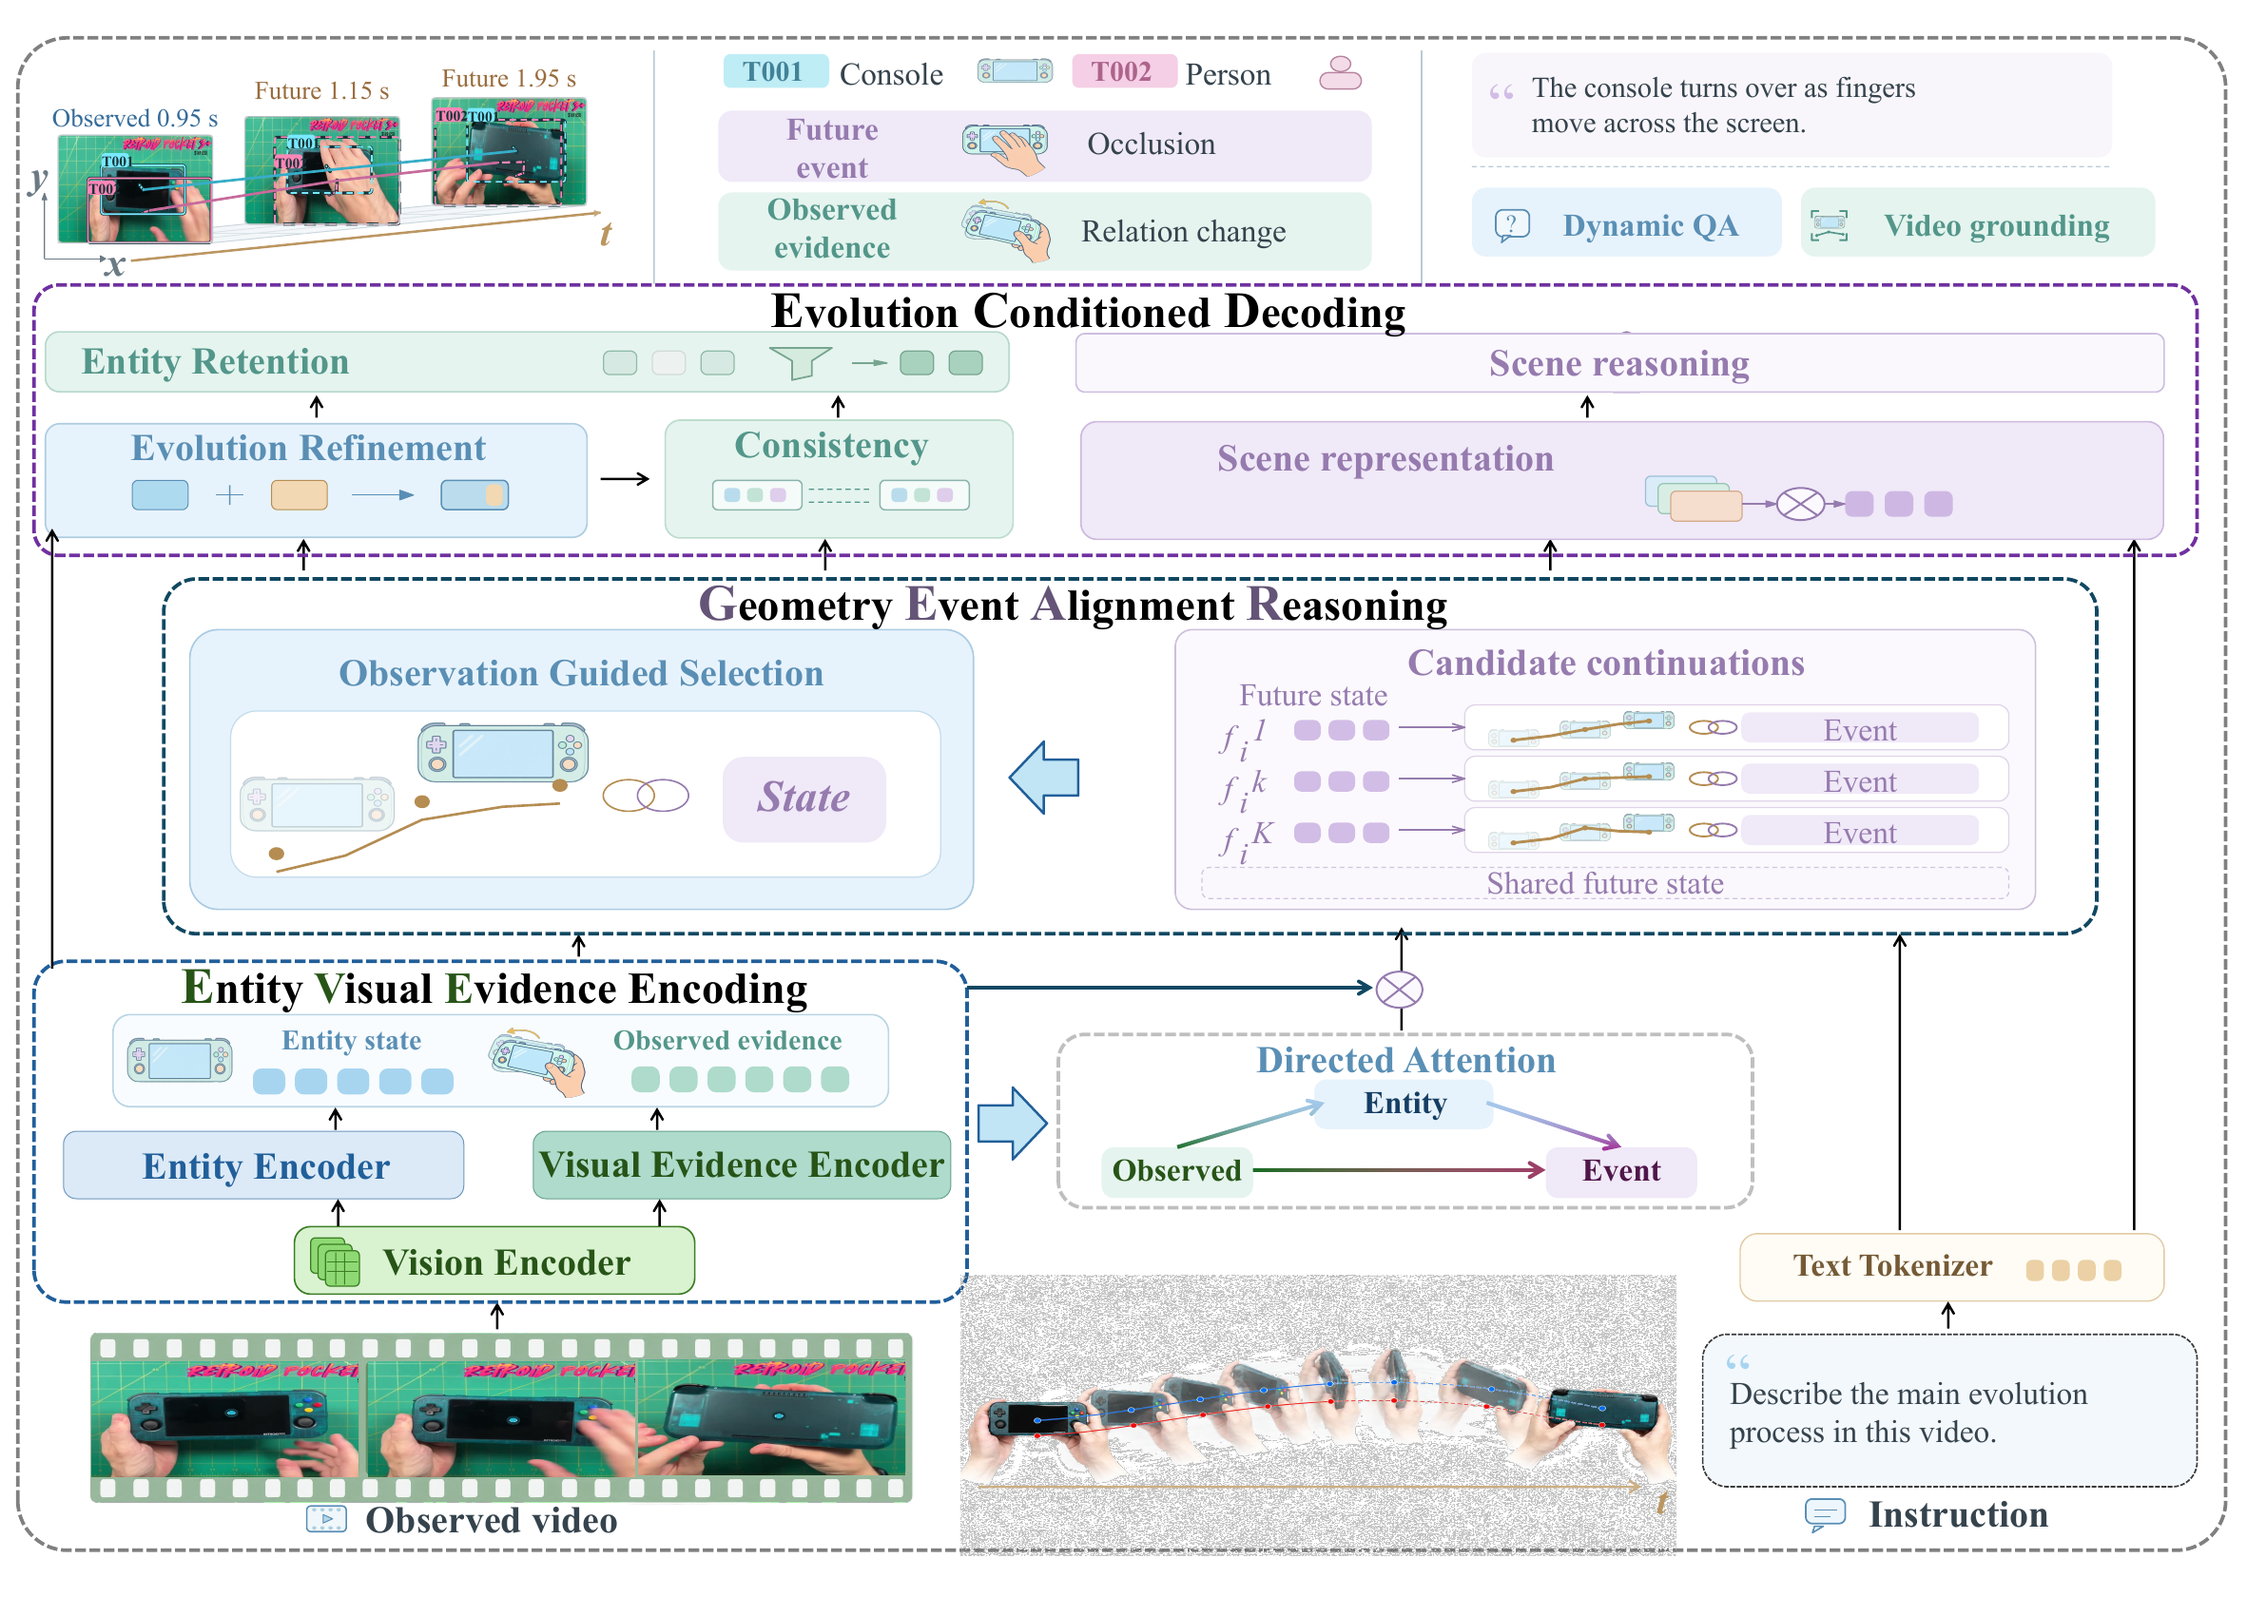
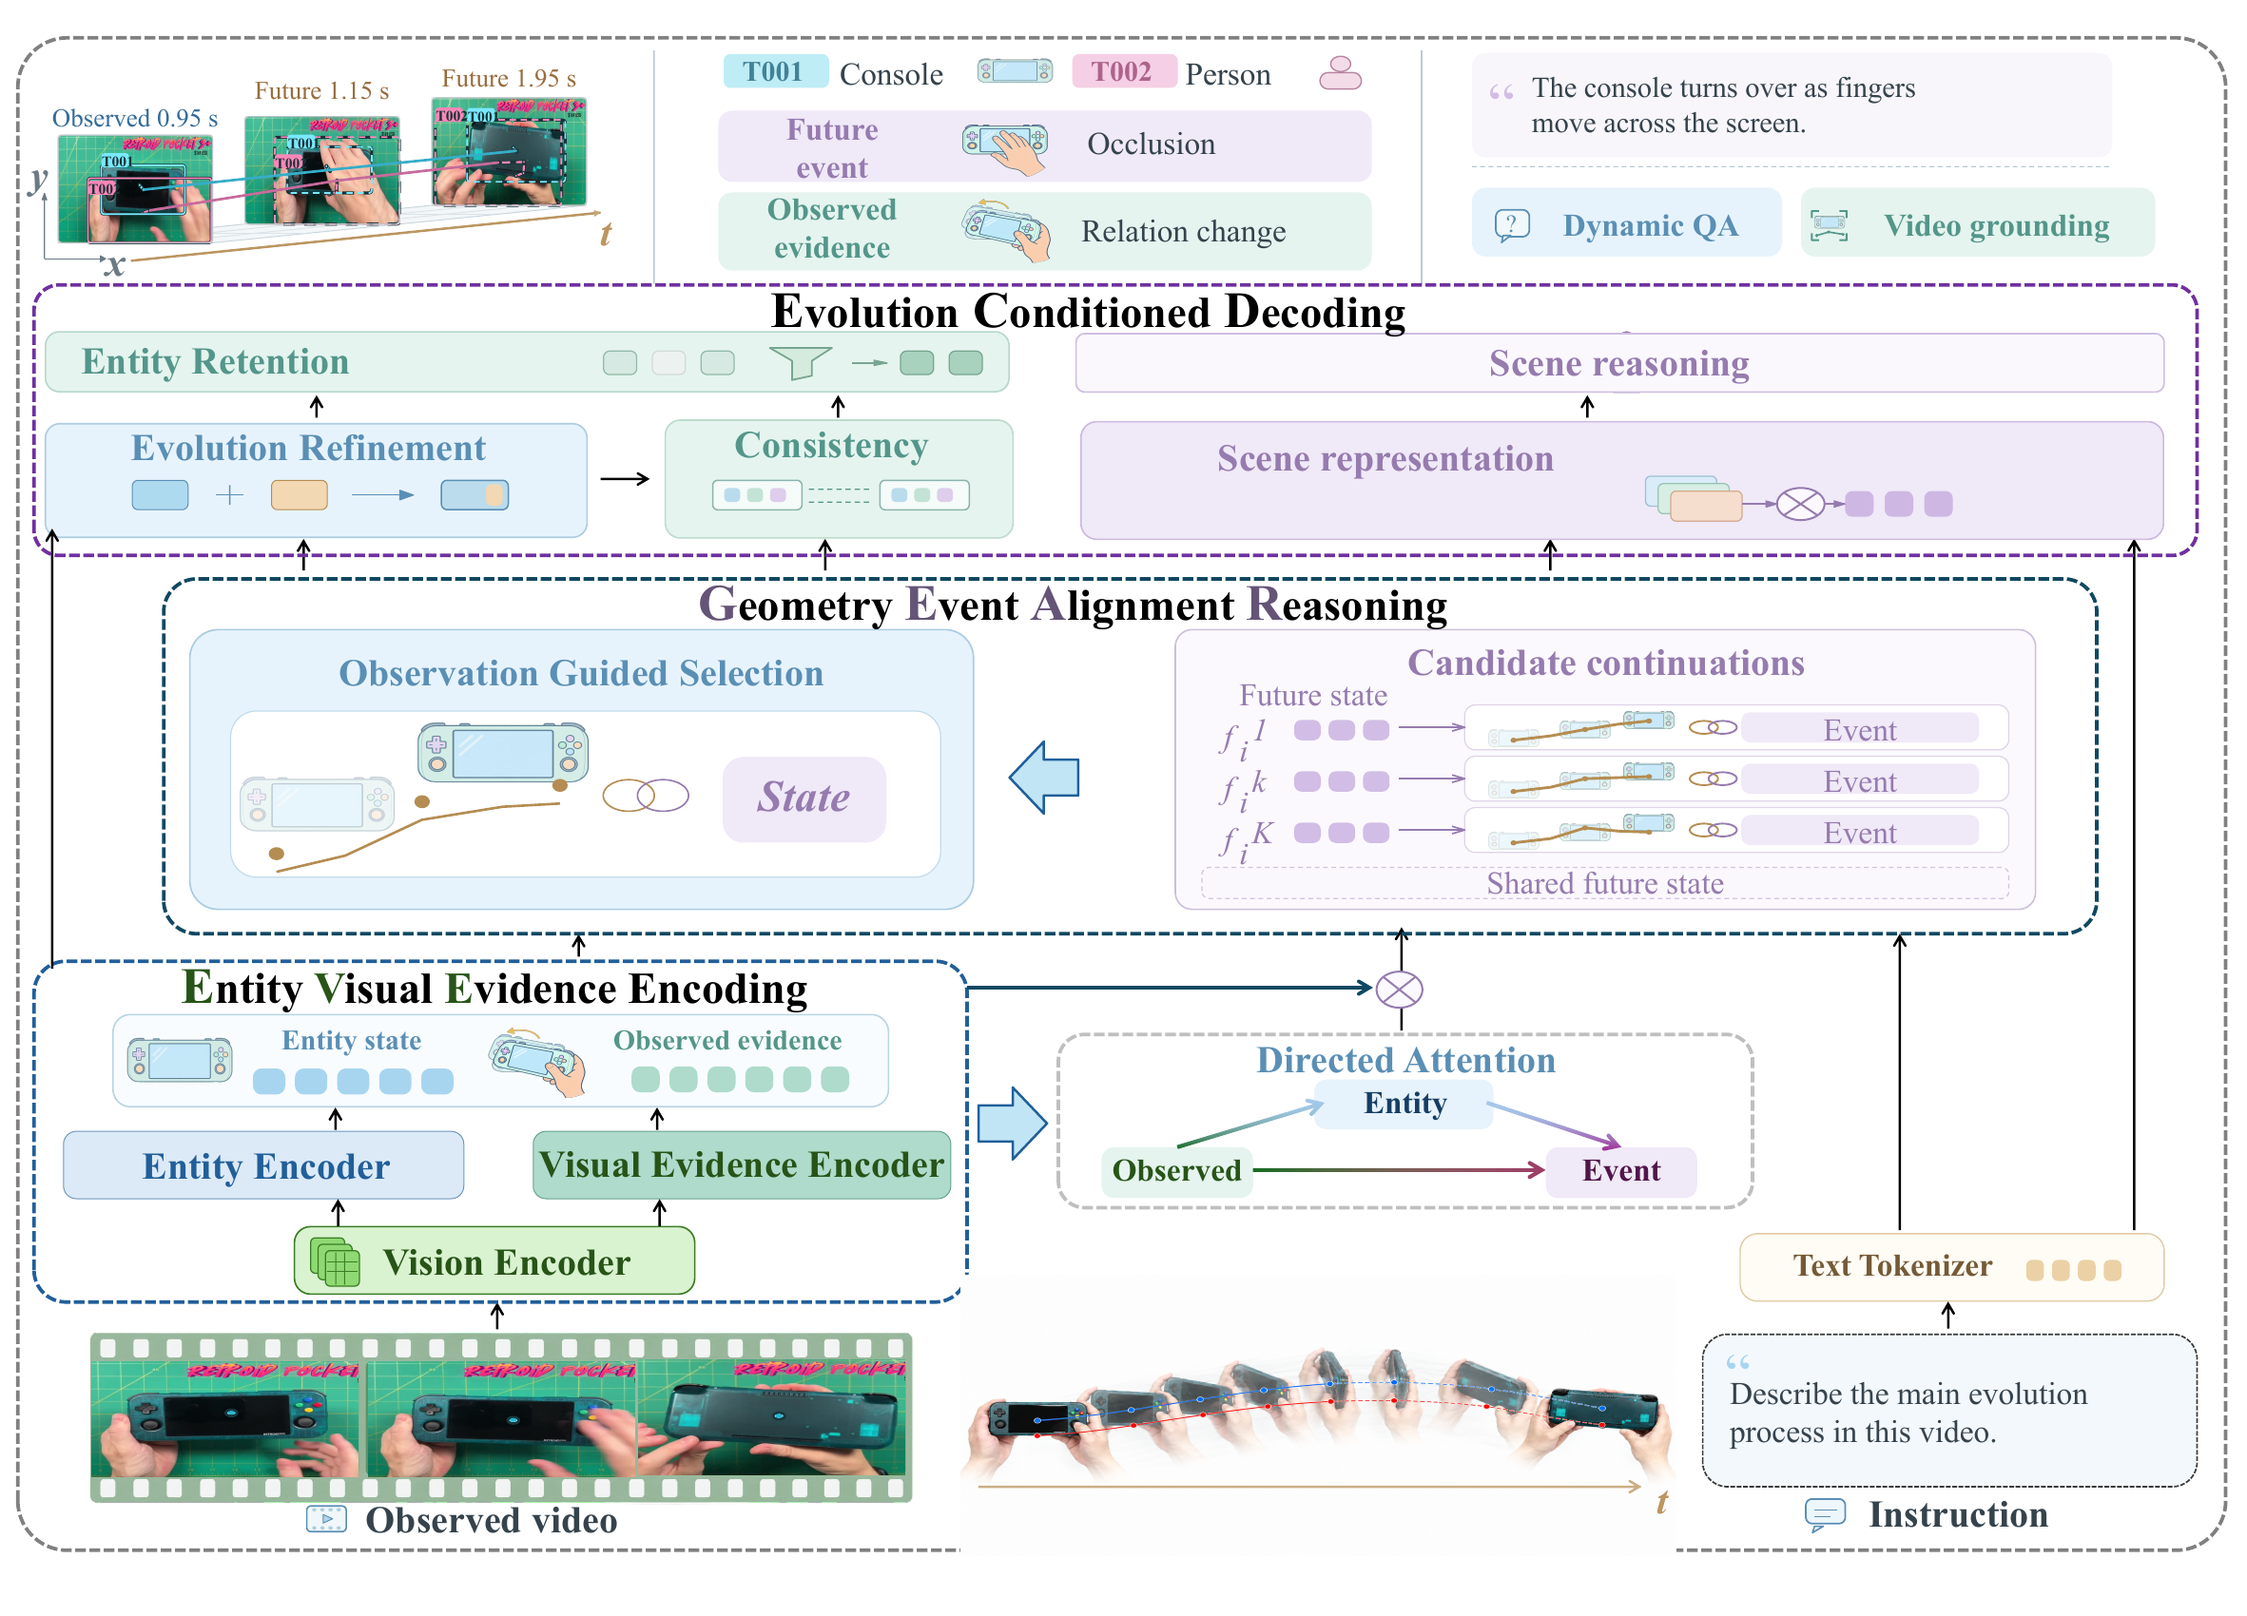
Restore clean original motion overlay and refine project introduction

Changed region(s): [[0.4016, 0.7794, 0.7414, 0.9665]]

diff --git a/README.md b/README.md
@@ -19,7 +19,7 @@
 <p><sup>1</sup> Huazhong University of Science and Technology<br>
 <sup>2</sup> Shanghai Jiao Tong University</p>
 
-**Following entities through change, and using their predicted evolution to reason about scenes.**
+**Reasoning about scenes through entity continuity and predicted change.**
 
 [Overview](#overview) &nbsp; · &nbsp; [Task](#task-comparison) &nbsp; · &nbsp; [Benchmark](#benchmark) &nbsp; · &nbsp; [EvoSee](#evosee) &nbsp; · &nbsp; [Results](#results) &nbsp; · &nbsp; [Release Status](#release-status) &nbsp; · &nbsp; [Citation](#citation)
 
@@ -29,12 +29,12 @@
 
 ## Overview
 
-Dynamic video reasoning requires understanding what changes while following the same entities through time. An entity retains its identity as its location, visibility, and relations develop. A trajectory describes where it moves; an Event describes how its state or relations change. Learning these complementary views of the same continuation connects spatial prediction with scene evolution reasoning.
+Scene evolution concerns how persistent entities move and interact over time. Learning this evolution connects the geometry of entity motion with the semantics of scene change, providing observed and anticipated context for spatiotemporal reasoning.
 
 | Task | Benchmark | Method |
 | :--- | :--- | :--- |
 | **Scene Evolution Understanding (SEU)** | **SceneForesee** | **EvoSee** |
-| Predict and interpret how observed entities and their relations develop. | Evaluate entity continuity and scene evolution reasoning on paired observed and future scenes. | Learn future geometry and Event semantics together, then use predicted change for entity and scene representations. |
+| Infer entity histories and future evolution, supported by observed Visual Evidence. | Evaluate entity continuity and scene evolution reasoning in paired scenes with shared identities. | Learn geometric and semantic continuations jointly to inform entity and scene reasoning. |
 
 <details>
 <summary><strong>Read the abstract</strong></summary>
@@ -70,7 +70,7 @@ The architecture comparison illustrates general video description and EvoSee for
   <a href="assets/benchmark.png"><img src="assets/benchmark.png" width="100%" alt="SceneForesee benchmark statistics, four Event types, annotation construction, and evaluation targets"></a>
 </p>
 
-SceneForesee pairs observed and future intervals under shared entity identities. Its annotations describe trajectories, future Events, associated Visual Evidence in observation, and the evolving scene.
+SceneForesee pairs observation and future intervals under shared entity identities. Trajectories, Events, and associated Visual Evidence support complementary geometric and semantic evaluations of the same evolving scenes.
 
 | Benchmark aspect | Categories or content |
 | :--- | :--- |
@@ -83,21 +83,21 @@ The two evaluation families provide **18 metrics** for complementary geometric a
 
 ## EvoSee
 
-**Geometry and Event semantics describe the same scene continuation.** EvoSee learns them through shared future states and uses the resulting changes to enrich entity and scene representations.
+**Future geometry and Event semantics describe the same entity continuation.** EvoSee learns this relationship through shared future states, selects a continuation from observation, and uses the predicted change to refine entity states and form scene context.
 
 <p align="center">
-  <a href="assets/method.png"><img src="assets/method.png" width="100%" alt="EvoSee architecture with Entity Visual Evidence Encoding, Geometry Event Alignment Reasoning, and Evolution Conditioned Decoding"></a>
+  <a href="assets/method.png"><img src="assets/method.png?v=original-overlay" width="100%" alt="EvoSee architecture with Entity Visual Evidence Encoding, Geometry Event Alignment Reasoning, and Evolution Conditioned Decoding"></a>
 </p>
 
-Observed entity states and motion evidence condition shared predictions of future geometry and Event semantics. Selected changes inform entity refinement and retention, while all entity queries contribute to scene representation. Example responses and trajectories are schematic illustrations.
+Shared future states couple trajectory and Event predictions. Predicted changes inform entity refinement and retention, while all queries contribute to scene representation. Example responses and trajectories are schematic illustrations.
 
 | Mechanism | Scientific role |
 | :--- | :--- |
-| **Entity Visual Evidence Encoding (EVE)** | Encodes entity states and observed motion evidence through shared entity queries. |
-| **Geometry Event Alignment Reasoning (GEAR)** | Predicts future geometry and Event semantics through shared candidate states. Geometry and Event errors jointly determine candidate assignment during training; observed representations select one continuation per entity at inference. |
-| **Evolution Conditioned Decoding (ECD)** | Uses selected changes to refine entity representations and support retention, while combining observed and predicted context for scene description and reasoning. |
+| **Entity Visual Evidence Encoding (EVE)** | Uses shared entity queries to encode entity states and observed motion evidence. |
+| **Geometry Event Alignment Reasoning (GEAR)** | Couples geometry and Event semantics through shared future states. Joint assignment supervises candidate learning during training; observation determines one continuation per entity at inference. |
+| **Evolution Conditioned Decoding (ECD)** | Uses predicted change to refine entity states and guide retention. Aggregation over all queries forms scene context for description and reasoning. |
 
-SEU outputs include observed and future trajectories, future Events, associated observed evidence, and a scene description. EvoSee's scene representation also supplies context for dynamic question answering and grounding.
+EvoSee predicts entity trajectories and future Events together with associated observed evidence and a scene description. Its scene representation also provides context for dynamic question answering and grounding.
 
 ## Results
 
